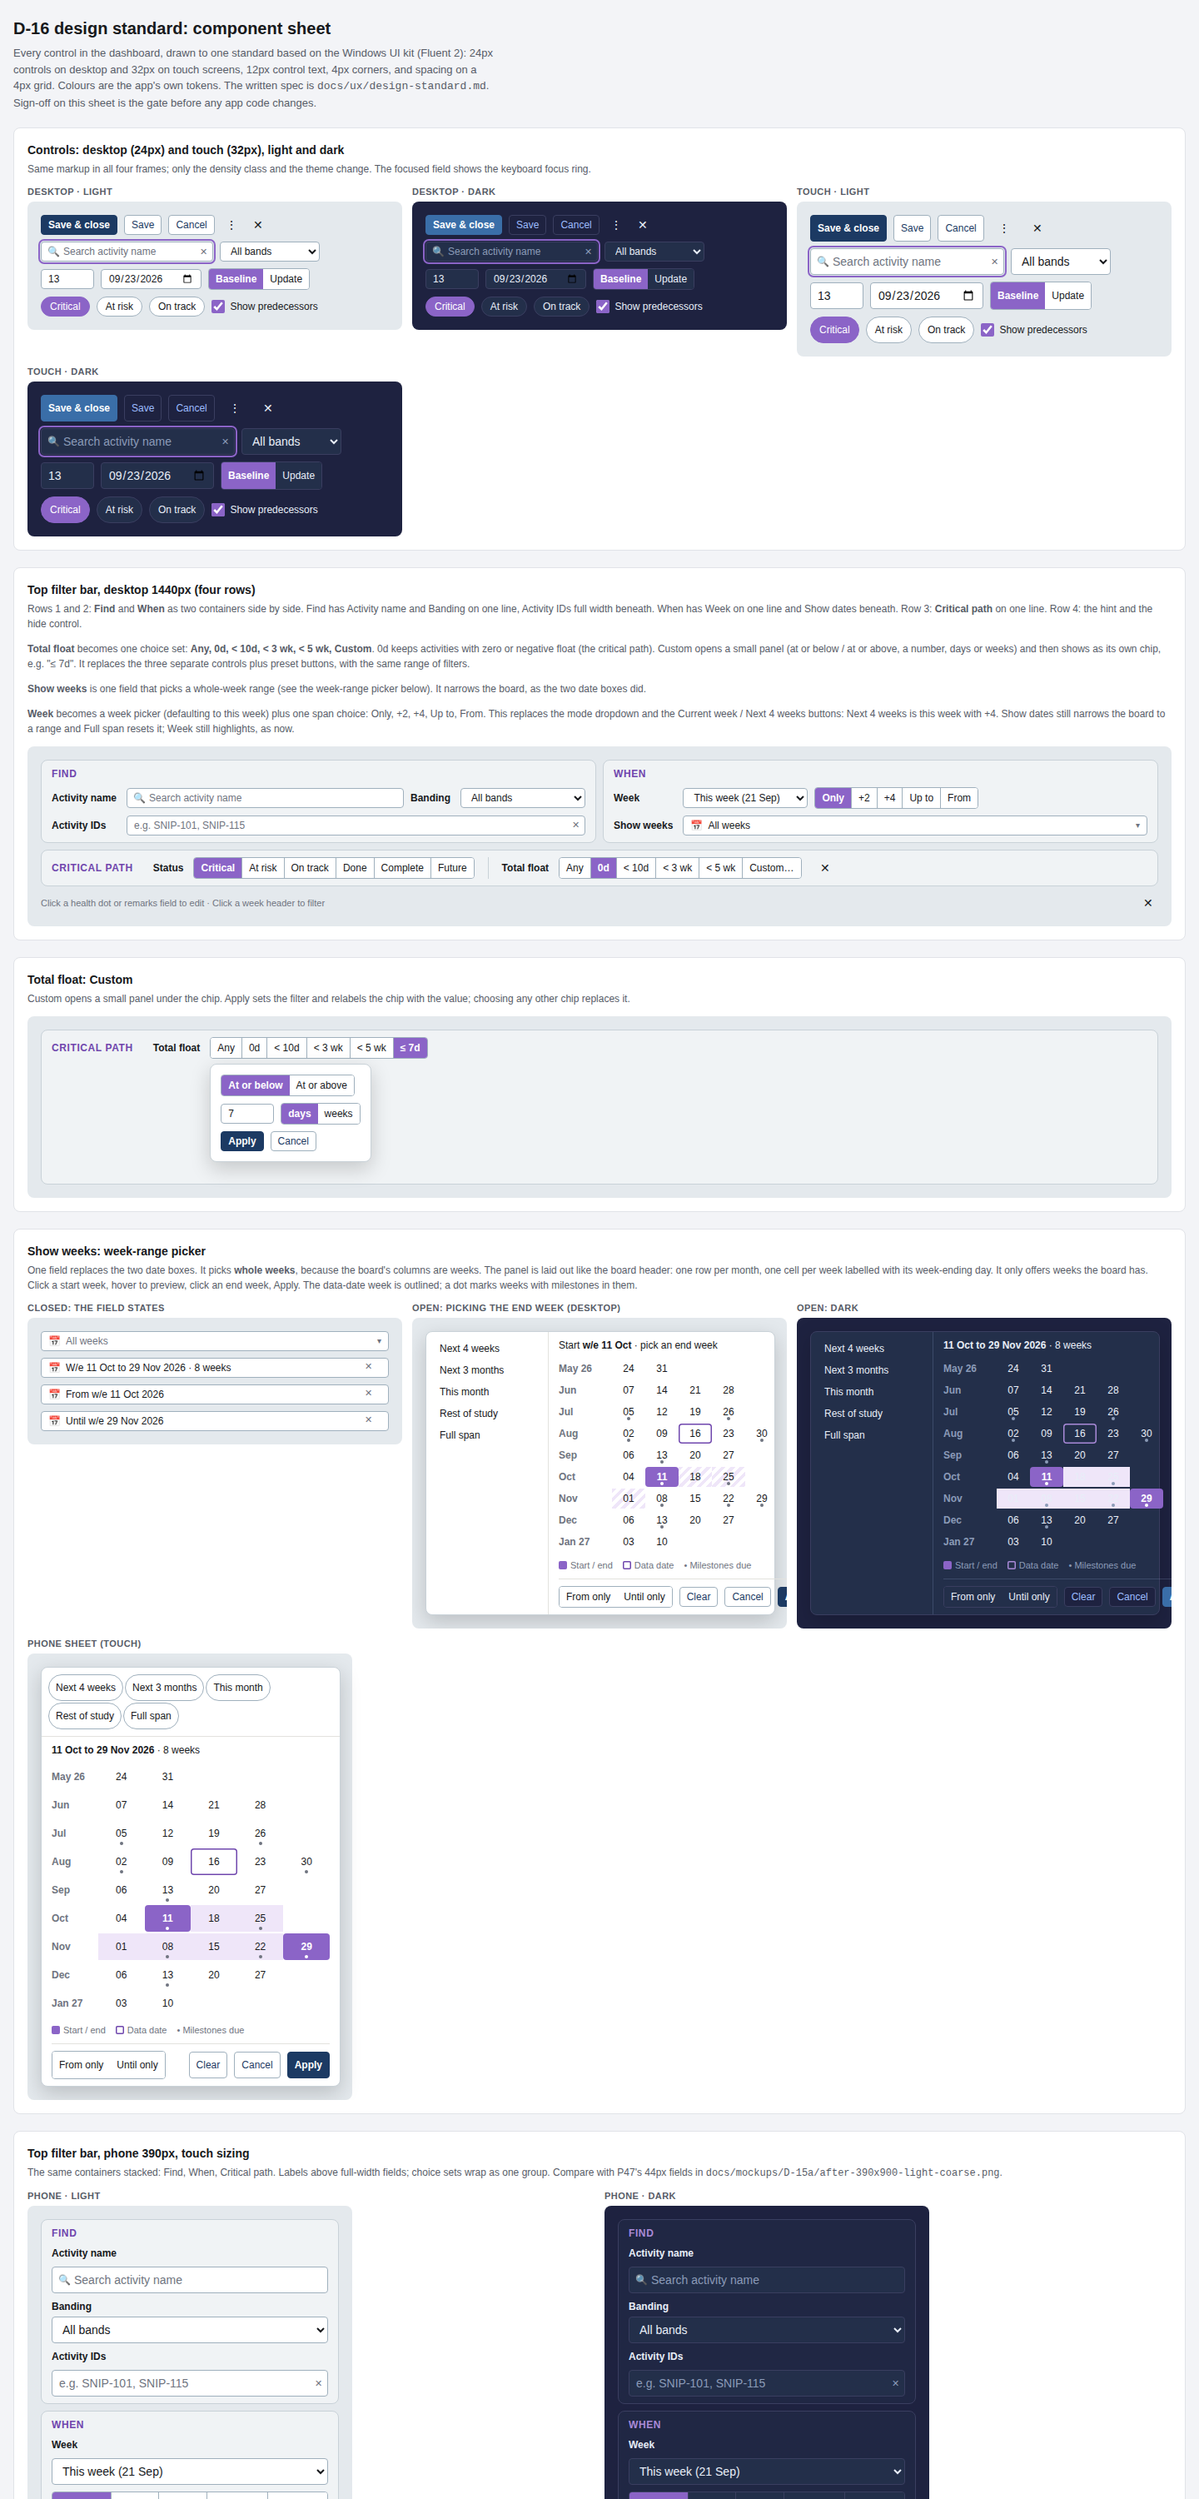
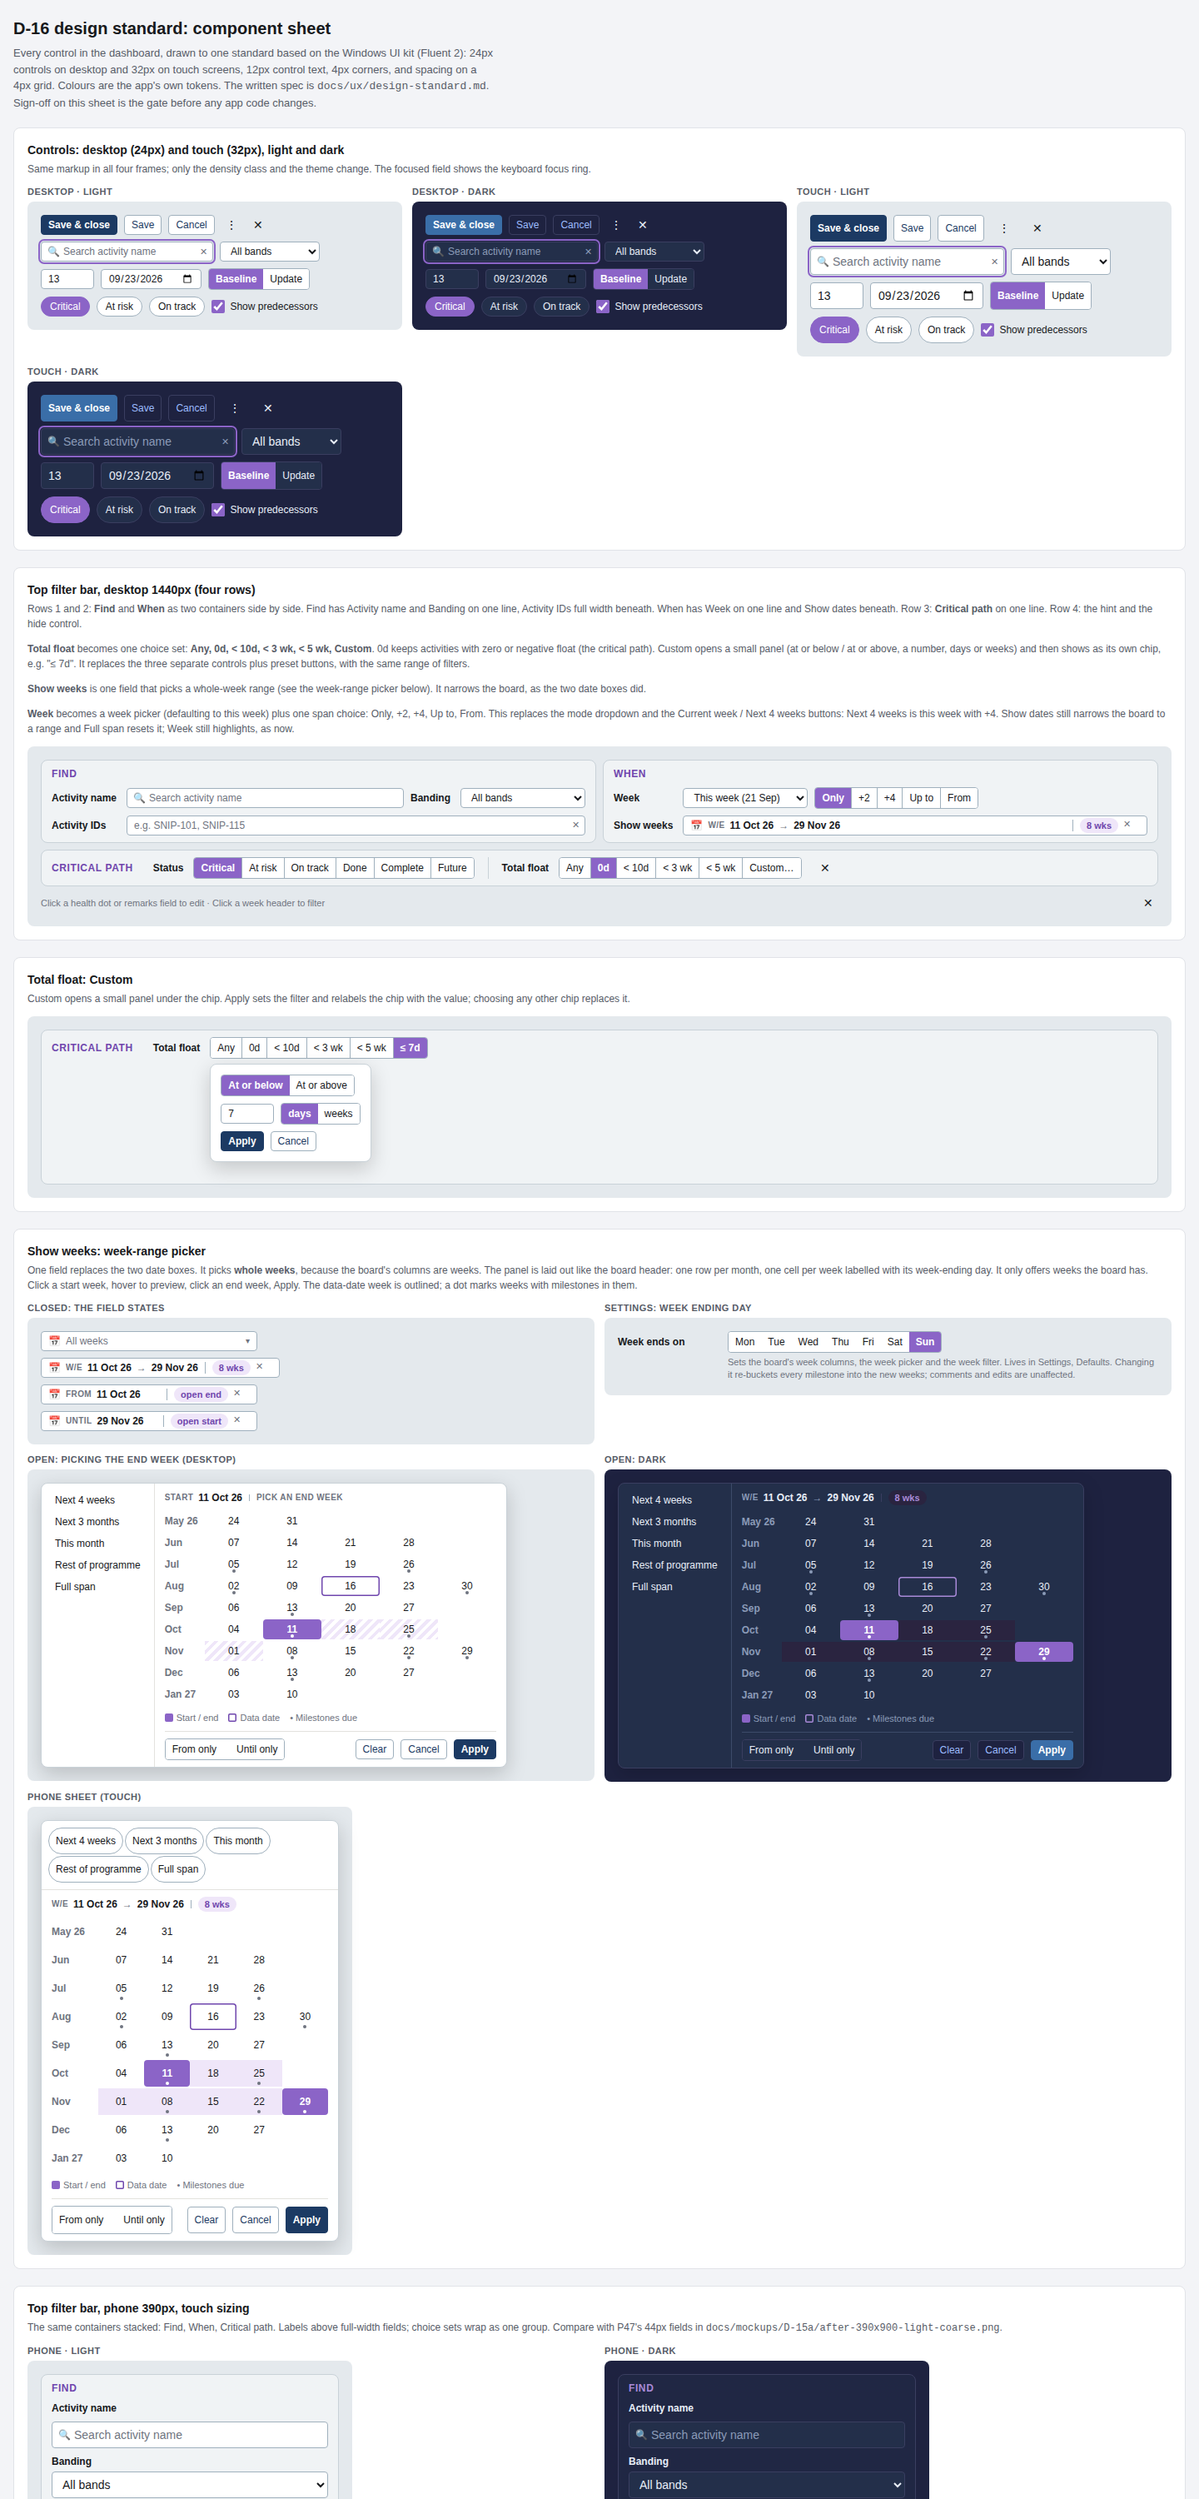
D-16a rev 5: Rest of programme, week-ends-on setting, structured closed range text, picker overflow fixes
Claude-Session: https://claude.ai/code/session_01VvvMafGZ9E3v4dsCotnPSK

Changed region(s): [[0.0, 0.527, 1.0, 1.0], [0.5, 0.868, 0.7812, 1.0], [0.9062, 0.31, 0.9375, 0.341]]

diff --git a/Projects/P6-Milestone-Dashboard/docs/mockups/D-16/component_sheet.html b/Projects/P6-Milestone-Dashboard/docs/mockups/D-16/component_sheet.html
@@ -16,12 +16,12 @@ body{background:var(--pg-bg);color:var(--pg-ink);font-family:'Segoe UI Variable 
 .pg-cap{font-size:11px;color:var(--pg-muted);margin:0 0 6px;font-weight:600;text-transform:uppercase;letter-spacing:.04em}
 
 /* App tokens, copied from src/milestone-dashboard.html */
-.t-light{--color-bg-panel:#f4f5f8;--color-bg-elevated:#ffffff;--color-filter-bg:#e4e9ed;--color-filter-border:#c9d2d8;
+.t-light{--color-accent-tint-bg:#efe6f9;--color-accent-wash:rgba(139,100,199,.10);--color-bg-panel:#f4f5f8;--color-bg-elevated:#ffffff;--color-filter-bg:#e4e9ed;--color-filter-border:#c9d2d8;
   --color-text-primary:#17191c;--color-text-muted:#6f7480;--color-accent-purple:#8b64c7;--color-accent-ink:#6f46ad;
   --color-btn-primary-bg:#1c3a63;--color-btn-primary-text:#ffffff;--color-btn-primary-hover-bg:#2a4a7a;
   --color-btn-secondary-bg:#ffffff;--color-btn-secondary-text:#1c3a63;--color-btn-secondary-outline:#9fb0bd;--color-btn-secondary-hover-bg:#eef1f7;
   --color-btn-icon-hover-bg:#dde1ea;--color-status-crit:#c0392b;--color-line-default:#e3e2de}
-.t-dark{--color-bg-panel:#1e2240;--color-bg-elevated:#232f4a;--color-filter-bg:#1e2240;--color-filter-border:#3a3e60;
+.t-dark{--color-accent-tint-bg:#2a2440;--color-accent-wash:rgba(139,100,199,.10);--color-bg-panel:#1e2240;--color-bg-elevated:#232f4a;--color-filter-bg:#1e2240;--color-filter-border:#3a3e60;
   --color-text-primary:#e8eef8;--color-text-muted:#8b9bb8;--color-accent-purple:#8b64c7;--color-accent-ink:#a98ad8;
   --color-btn-primary-bg:#3a6ea8;--color-btn-primary-text:#ffffff;--color-btn-primary-hover-bg:#4a80ba;
   --color-btn-secondary-bg:#1e2240;--color-btn-secondary-text:#9cbcff;--color-btn-secondary-outline:#3a3e60;--color-btn-secondary-hover-bg:#2a2e50;
@@ -106,15 +106,15 @@ body{background:var(--pg-bg);color:var(--pg-ink);font-family:'Segoe UI Variable 
 .wr-field.empty .wr-txt{color:var(--color-text-muted)}
 .wr-field .wr-caret{color:var(--color-text-muted);font-size:10px}
 .wr-field .wr-clr{border:0;background:transparent;color:var(--color-text-muted);width:20px;height:20px;border-radius:var(--radius-ctl);cursor:pointer;font-size:11px}
-.wr-pop{border:1px solid var(--color-filter-border);border-radius:var(--radius-overlay);background:var(--color-bg-elevated);box-shadow:0 8px 24px rgba(0,0,0,.18);display:grid;grid-template-columns:auto 1fr;gap:0;width:max-content;max-width:100%;color:var(--color-text-primary)}
-.wr-quick{display:flex;flex-direction:column;gap:2px;padding:8px;border-right:1px solid var(--color-line-default);min-width:130px}
+.wr-pop{box-sizing:border-box;width:100%;max-width:560px;border:1px solid var(--color-filter-border);border-radius:var(--radius-overlay);background:var(--color-bg-elevated);box-shadow:0 8px 24px rgba(0,0,0,.18);display:grid;grid-template-columns:minmax(120px,auto) minmax(0,1fr);gap:0;color:var(--color-text-primary)}
+.wr-quick{display:flex;flex-direction:column;gap:2px;padding:8px;border-right:1px solid var(--color-line-default);min-width:0}
 .wr-quick button{height:var(--ctl-h);text-align:left;border:0;background:transparent;color:var(--color-text-primary);font:inherit;font-size:var(--fs-caption);padding:0 8px;border-radius:var(--radius-ctl);cursor:pointer}
 .wr-quick button:hover{background:var(--color-btn-icon-hover-bg)}
 .wr-quick button[aria-pressed="true"]{background:var(--color-accent-wash,rgba(139,100,199,.12));color:var(--color-accent-ink);font-weight:600}
-.wr-main{padding:8px 12px;display:flex;flex-direction:column;gap:8px}
+.wr-main{min-width:0;padding:8px 12px;display:flex;flex-direction:column;gap:8px}
 .wr-head{display:flex;justify-content:space-between;align-items:center;font-size:var(--fs-caption)}
 .wr-head b{font-weight:600}
-.wr-grid{display:grid;grid-template-columns:64px repeat(5,40px);gap:2px 0;align-items:center}
+.wr-grid{display:grid;grid-template-columns:minmax(44px,auto) repeat(5,minmax(28px,1fr));gap:2px 0;align-items:center}
 .wr-mon{font-size:var(--fs-caption);font-weight:600;color:var(--color-text-muted);padding-right:8px}
 .wr-wk{position:relative;height:var(--ctl-h);display:flex;align-items:center;justify-content:center;font-size:var(--fs-caption);cursor:pointer;color:var(--color-text-primary)}
 .wr-wk:hover{background:var(--color-btn-icon-hover-bg);border-radius:var(--radius-ctl)}
@@ -126,10 +126,22 @@ body{background:var(--pg-bg);color:var(--pg-ink);font-family:'Segoe UI Variable 
 .wr-wk.end .dot{background:#fff}
 .wr-wk.out{color:var(--color-text-muted);opacity:.35;cursor:default}
 .wr-foot button{white-space:nowrap}
-.wr-foot{display:flex;align-items:center;justify-content:space-between;gap:8px;border-top:1px solid var(--color-line-default);padding-top:8px;font-size:var(--fs-caption)}
-.wr-legend{display:flex;gap:12px;color:var(--color-text-muted);font-size:11px;align-items:center}
+.wr-foot .ds-seg button,.wr-foot .ds-btn{height:auto;min-height:var(--ctl-h);line-height:1.2;padding-block:2px}
+.wr-foot>span{display:flex;flex-wrap:wrap;gap:8px}
+.wr-foot{display:flex;flex-wrap:wrap;align-items:center;justify-content:space-between;gap:8px;border-top:1px solid var(--color-line-default);padding-top:8px;font-size:var(--fs-caption)}
+.wr-legend{flex-wrap:wrap;display:flex;gap:12px;color:var(--color-text-muted);font-size:11px;align-items:center}
 .wr-legend i{display:inline-block;width:10px;height:10px;border-radius:2px;vertical-align:-1px;margin-right:4px}
-.wr-states{display:flex;flex-direction:column;gap:8px}
+.wr-states{display:flex;flex-direction:column;gap:8px;align-items:flex-start}
+.wr-val{display:inline-flex;align-items:center;gap:6px;flex:1 1 auto;min-width:0;white-space:nowrap;overflow:hidden}
+.wr-tag{font-size:10px;font-weight:600;letter-spacing:.04em;text-transform:uppercase;color:var(--color-text-muted)}
+.wr-val b{font-weight:600}
+.wr-arrow{color:var(--color-text-muted)}
+.wr-div{width:1px;align-self:stretch;margin:4px 2px;background:var(--color-btn-secondary-outline)}
+.wr-count{flex:0 0 auto;font-size:11px;font-weight:600;color:var(--color-accent-ink);background:var(--color-accent-tint-bg,#efe6f9);border-radius:999px;padding:1px 8px}
+.wr-field{min-width:260px}
+.st-row{display:grid;grid-template-columns:120px 1fr;gap:4px 12px;align-items:center}
+.st-row .ds-seg{justify-self:start}
+.st-help{grid-column:2;font-size:11px;color:var(--color-text-muted);line-height:1.4}
 .touch .wr-grid{grid-template-columns:56px repeat(5,minmax(0,1fr))}
 .touch .wr-pop{grid-template-columns:1fr;width:100%}
 .touch .wr-quick{flex-direction:row;flex-wrap:wrap;border-right:0;border-bottom:1px solid var(--color-line-default);min-width:0}
@@ -159,7 +171,7 @@ body{background:var(--pg-bg);color:var(--pg-ink);font-family:'Segoe UI Variable 
   <p><b>Total float</b> becomes one choice set: <b>Any, 0d, &lt; 10d, &lt; 3 wk, &lt; 5 wk, Custom</b>. 0d keeps activities with zero or negative float (the critical path). Custom opens a small panel (at or below / at or above, a number, days or weeks) and then shows as its own chip, e.g. "&#8804; 7d". It replaces the three separate controls plus preset buttons, with the same range of filters.</p>
   <p><b>Show weeks</b> is one field that picks a whole-week range (see the week-range picker below). It narrows the board, as the two date boxes did.</p>
   <p><b>Week</b> becomes a week picker (defaulting to this week) plus one span choice: Only, +2, +4, Up to, From. This replaces the mode dropdown and the Current week / Next 4 weeks buttons: Next 4 weeks is this week with +4. Show dates still narrows the board to a range and Full span resets it; Week still highlights, as now.</p>
-  <div class="pg-scroll"><div style="min-width:1100px"><div class="ds t-light fb" id="fb-desk"></div></div></div>
+  <div class="pg-scroll"><div style="min-width:900px"><div class="ds t-light fb" id="fb-desk"></div></div></div>
 </section>
 
 <section class="pg-sect">
@@ -174,10 +186,17 @@ body{background:var(--pg-bg);color:var(--pg-ink);font-family:'Segoe UI Variable 
   <div class="pg-grid">
     <div><p class="pg-cap">Closed: the field states</p><div class="ds t-light"><div class="wr-states">
       <button class="wr-field empty"><span class="wr-ico" aria-hidden="true">&#128197;</span><span class="wr-txt">All weeks</span><span class="wr-caret">&#9662;</span></button>
-      <button class="wr-field"><span class="wr-ico" aria-hidden="true">&#128197;</span><span class="wr-txt">W/e 11 Oct to 29 Nov 2026 &#183; 8 weeks</span><span class="wr-clr" aria-label="Clear">&#10005;</span></button>
-      <button class="wr-field"><span class="wr-ico" aria-hidden="true">&#128197;</span><span class="wr-txt">From w/e 11 Oct 2026</span><span class="wr-clr" aria-label="Clear">&#10005;</span></button>
-      <button class="wr-field"><span class="wr-ico" aria-hidden="true">&#128197;</span><span class="wr-txt">Until w/e 29 Nov 2026</span><span class="wr-clr" aria-label="Clear">&#10005;</span></button>
+      <button class="wr-field" aria-label="Weeks ending 11 Oct 2026 to 29 Nov 2026, 8 weeks"><span class="wr-ico" aria-hidden="true">&#128197;</span><span class="wr-val"><span class="wr-tag">W/E</span><b>11 Oct 26</b><span class="wr-arrow">&#8594;</span><b>29 Nov 26</b></span><span class="wr-div" aria-hidden="true"></span><span class="wr-count">8 wks</span><span class="wr-clr" aria-label="Clear">&#10005;</span></button>
+      <button class="wr-field"><span class="wr-ico" aria-hidden="true">&#128197;</span><span class="wr-val"><span class="wr-tag">From</span><b>11 Oct 26</b></span><span class="wr-div" aria-hidden="true"></span><span class="wr-count">open end</span><span class="wr-clr" aria-label="Clear">&#10005;</span></button>
+      <button class="wr-field"><span class="wr-ico" aria-hidden="true">&#128197;</span><span class="wr-val"><span class="wr-tag">Until</span><b>29 Nov 26</b></span><span class="wr-div" aria-hidden="true"></span><span class="wr-count">open start</span><span class="wr-clr" aria-label="Clear">&#10005;</span></button>
     </div></div></div>
+    <div><p class="pg-cap">Settings: week ending day</p><div class="ds t-light"><div class="st-row">
+      <label style="font-weight:600">Week ends on</label>
+      <span class="ds-seg" role="group" aria-label="Week ends on"><button aria-pressed="false">Mon</button><button aria-pressed="false">Tue</button><button aria-pressed="false">Wed</button><button aria-pressed="false">Thu</button><button aria-pressed="false">Fri</button><button aria-pressed="false">Sat</button><button aria-pressed="true">Sun</button></span>
+      <span class="st-help">Sets the board's week columns, the week picker and the week filter. Lives in Settings, Defaults. Changing it re-buckets every milestone into the new weeks; comments and edits are unaffected.</span>
+    </div></div></div>
+  </div>
+  <div class="pg-grid" style="grid-template-columns:repeat(auto-fit,minmax(min(480px,100%),1fr));margin-top:12px">
     <div><p class="pg-cap">Open: picking the end week (desktop)</p><div class="pg-scroll"><div class="ds t-light"><div id="wr-desk"></div></div></div></div>
     <div><p class="pg-cap">Open: dark</p><div class="pg-scroll"><div class="ds t-dark"><div id="wr-dark"></div></div></div></div>
     <div><p class="pg-cap">Phone sheet (touch)</p><div class="pg-scroll"><div style="width:390px"><div class="ds touch t-light"><div id="wr-phone"></div></div></div></div></div>
@@ -235,7 +254,7 @@ body{background:var(--pg-bg);color:var(--pg-ink);font-family:'Segoe UI Variable 
       <div class="fb-line"><select class="ds-select" style="min-width:150px"><option>This week (21 Sep)</option><option>All weeks</option></select>
         <span class="ds-seg chips" role="group" aria-label="Week span"><button aria-pressed="true">Only</button><button aria-pressed="false">+2</button><button aria-pressed="false">+4</button><button aria-pressed="false">Up to</button><button aria-pressed="false">From</button></span></div>
       <label>Show weeks</label>
-      <div class="fb-line"><button class="wr-field grow" aria-haspopup="dialog"><span class="wr-ico" aria-hidden="true">&#128197;</span><span class="wr-txt">All weeks</span><span class="wr-caret" aria-hidden="true">&#9662;</span></button></div>
+      <div class="fb-line"><button class="wr-field grow" aria-haspopup="dialog"><span class="wr-ico" aria-hidden="true">&#128197;</span><span class="wr-val"><span class="wr-tag">W/E</span><b>11 Oct 26</b><span class="wr-arrow">&#8594;</span><b>29 Nov 26</b></span><span class="wr-div" aria-hidden="true"></span><span class="wr-count">8 wks</span><span class="wr-clr" aria-label="Clear">&#10005;</span></button></div>
     </div>
   </div>
   <div class="fb-box crit">
@@ -286,9 +305,9 @@ body{background:var(--pg-bg);color:var(--pg-ink);font-family:'Segoe UI Variable 
         var key=w.getFullYear()+'-'+w.getMonth()+'-'+w.getDate();
         g+='<span class="'+c+'" role="button" aria-label="Week ending '+w.getDate()+' '+M[w.getMonth()]+'">'+('0'+w.getDate()).slice(-2)+(busy[key]?'<i class="dot"></i>':'')+'</span>';}
     });
-    var q=['Next 4 weeks','Next 3 months','This month','Rest of study','Full span'].map(function(x){return '<button aria-pressed="false">'+x+'</button>';}).join('');
+    var q=['Next 4 weeks','Next 3 months','This month','Rest of programme','Full span'].map(function(x){return '<button aria-pressed="false">'+x+'</button>';}).join('');
     el.innerHTML='<div class="wr-pop"><div class="wr-quick">'+q+'</div><div class="wr-main">'+
-      '<div class="wr-head"><span>'+(opt.done?'<b>11 Oct to 29 Nov 2026</b> &#183; 8 weeks':'Start <b>w/e 11 Oct</b> &#183; pick an end week')+'</span></div>'+
+      '<div class="wr-head"><span>'+(opt.done?'<span class="wr-val"><span class="wr-tag">W/E</span><b>11 Oct 26</b><span class="wr-arrow">&#8594;</span><b>29 Nov 26</b><span class="wr-div"></span><span class="wr-count">8 wks</span></span>':'<span class="wr-val"><span class="wr-tag">Start</span><b>11 Oct 26</b><span class="wr-div"></span><span class="wr-tag">Pick an end week</span></span>')+'</span></div>'+
       '<div class="wr-grid">'+g+'</div>'+
       '<div class="wr-legend"><span><i style="background:var(--color-accent-purple)"></i>Start / end</span><span><i style="box-shadow:inset 0 0 0 1.5px var(--color-accent-ink)"></i>Data date</span><span>&#8226; Milestones due</span></div>'+
       '<div class="wr-foot"><span class="ds-seg"><button aria-pressed="false" title="Show from the picked week onward">From only</button><button aria-pressed="false" title="Show up to the picked week">Until only</button></span><span style="display:flex;gap:8px"><button class="ds-btn">Clear</button><button class="ds-btn">Cancel</button><button class="ds-btn primary">Apply</button></span></div>'+

diff --git a/Projects/P6-Milestone-Dashboard/docs/ux/design-standard.md b/Projects/P6-Milestone-Dashboard/docs/ux/design-standard.md
@@ -86,6 +86,13 @@ Groups are separated by `--group-gap` and a 1px hairline. There is no empty spac
 - The visual control is `--ctl-h-touch` (32px). The touch area reaches `--ctl-hit-touch` (40px) through padding on the row or a positioned pseudo-element, never by growing the box.
 - In-field icons (clear, search) never take a touch-size minimum. Their touch area is a pseudo-element.
 
+## Dates and weeks
+
+- **Week ending day** is a setting (Settings, Defaults, "Week ends on", a Mon to Sun segmented toggle). The default is Sunday, matching the current board. It drives the board's week columns, the week-range picker and the week filter together. Changing it re-buckets milestones into the new weeks. Comments and edits are unaffected.
+- **The week-range picker snaps to whole weeks.** It lists week-ending dates grouped by month, not a day calendar.
+- **Closed-state range text** is structured, never a sentence: a muted uppercase tag (`W/E`, `From`, `Until`), dates in semibold, a muted arrow between them, a 1px divider, then a count pill (`8 wks`, `open end`, `open start`). Quick ranges use programme wording ("Rest of programme").
+- **Overlays stay inside their frame.** A popover is `box-sizing:border-box`, `max-width` bounded, and its grid columns use `minmax(0,…)` so content wraps rather than spills. Footer buttons grow in height rather than letting text cross the button edge.
+
 ## Focus and keyboard
 
 - The same `--focus-ring` on `:focus-visible` everywhere. The mouse never shows it.
